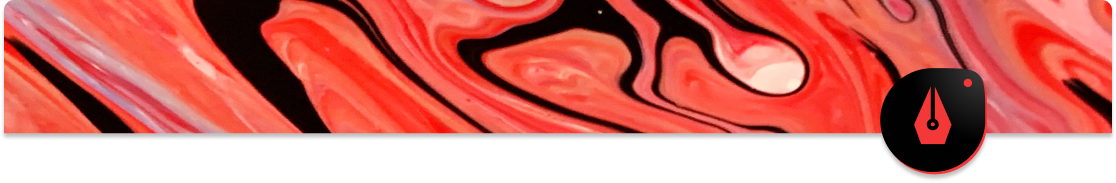
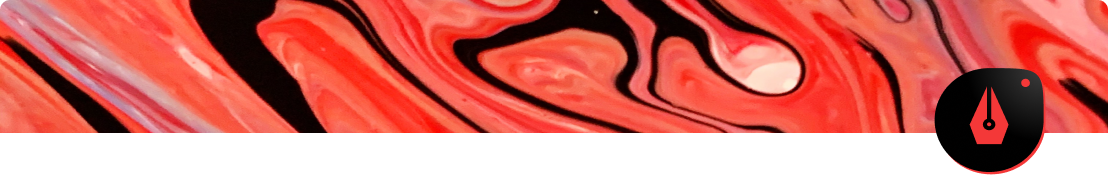
Ajustes2

diff --git a/Softwears/Softuo Draw.html b/Softwears/Softuo Draw.html
@@ -54,7 +54,7 @@
         </a>
     </div>
     <div class="plano">
-        <img id="estilo" src="Assets/Drawn estilo.png" style="margin-left: -4px;">
+        <img id="estilo" src="Assets/Drawn estilo.png">
         <div class="descricao">
             <h2 class="title">Softuo Draw</h2>
             <p class="sobre">Aproveite a ferramenta mais inovadora do mercado e crie vetores e ilustrações incríveis com o Softuo Draw. Se sinta livre para trabalhar quando quiser, com os tamanhos que quiser e do jeito que quiser. Transforme o que imaginar em arte e compartilhe com o mundo!</p>

diff --git a/Home page/Home.html b/Home page/Home.html
@@ -112,6 +112,7 @@
     </div>
     <div id="comunidade">
         <h2 id="comunititle">Venha e faça parte da nossa comunidade!</h2>
+        <p id="textocomunidade">Faça parte da Comunidade Softuo e se divirta com os posts dos nossos usuários! Compartilhe os seus projetos e reutilize o que é compartilhado na plataforma! Clique aqui para acessar a comunidade e ver os projetos dos nossos usuários.</p>
         <img src="Assets/Imgs da comunidadee.png">
     </div>
     <div id="aterodape">

diff --git a/Softwears/Softwears estilo.css b/Softwears/Softwears estilo.css
@@ -107,7 +107,7 @@ body {
 }
 #voltar {
     position: absolute;
-    bottom: 80px;
+    top: 547px;
     right: 614px;
     font-size: 16px;
     font-weight: bold;
@@ -117,7 +117,7 @@ body {
 }
 #premium {
     position: absolute;
-    bottom: 75px;
+    top: 540px;
     right: 436px;
     width: 155px;
     height: 32px;
@@ -125,7 +125,7 @@ body {
 }
 .assinar {
     position: absolute;
-    bottom: 75px;
+    top: 540px;
     right: 148px;
     height: 32px;
     width: 264px;

diff --git a/Home page/Home.css b/Home page/Home.css
@@ -365,6 +365,14 @@ a {
 #comunititle {
     color: white;
     font-size: 40px;
+    margin-bottom: 0px;
+}
+#textocomunidade {
+    width: 1008px;
+    font-size: 22px;
+    color: white;
+    margin: 33px 0px;
+    text-align: center;
 }
 
 /* -------Rodapé------- */
